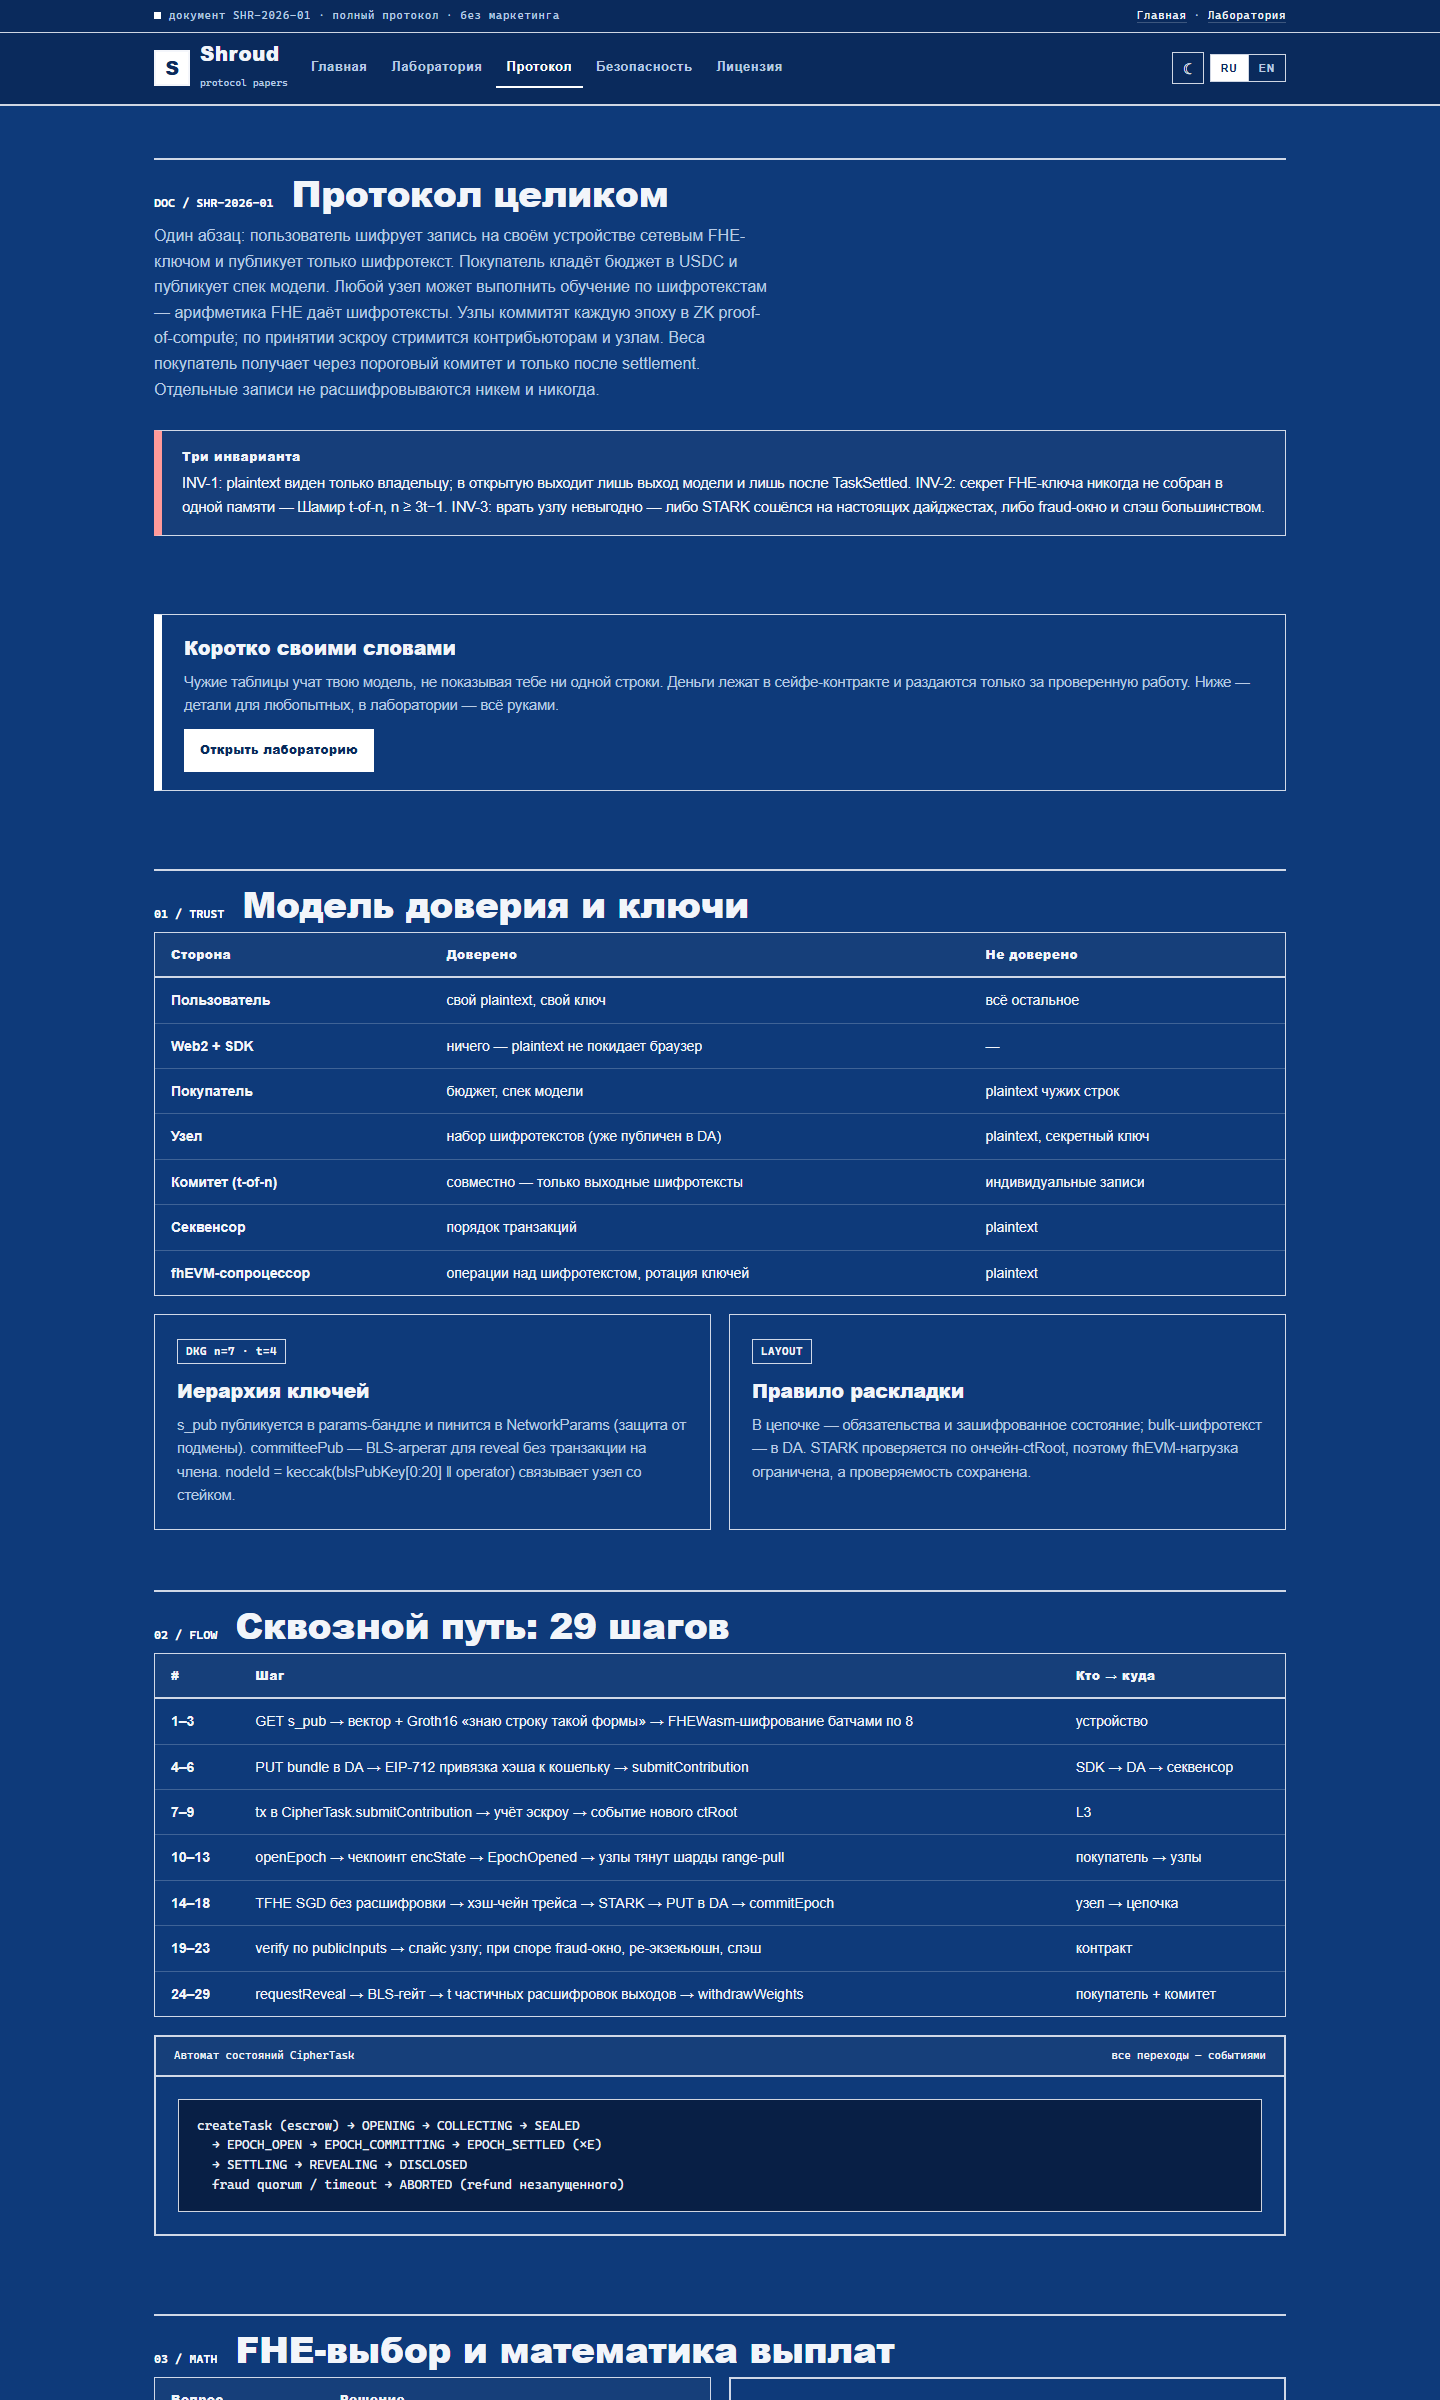
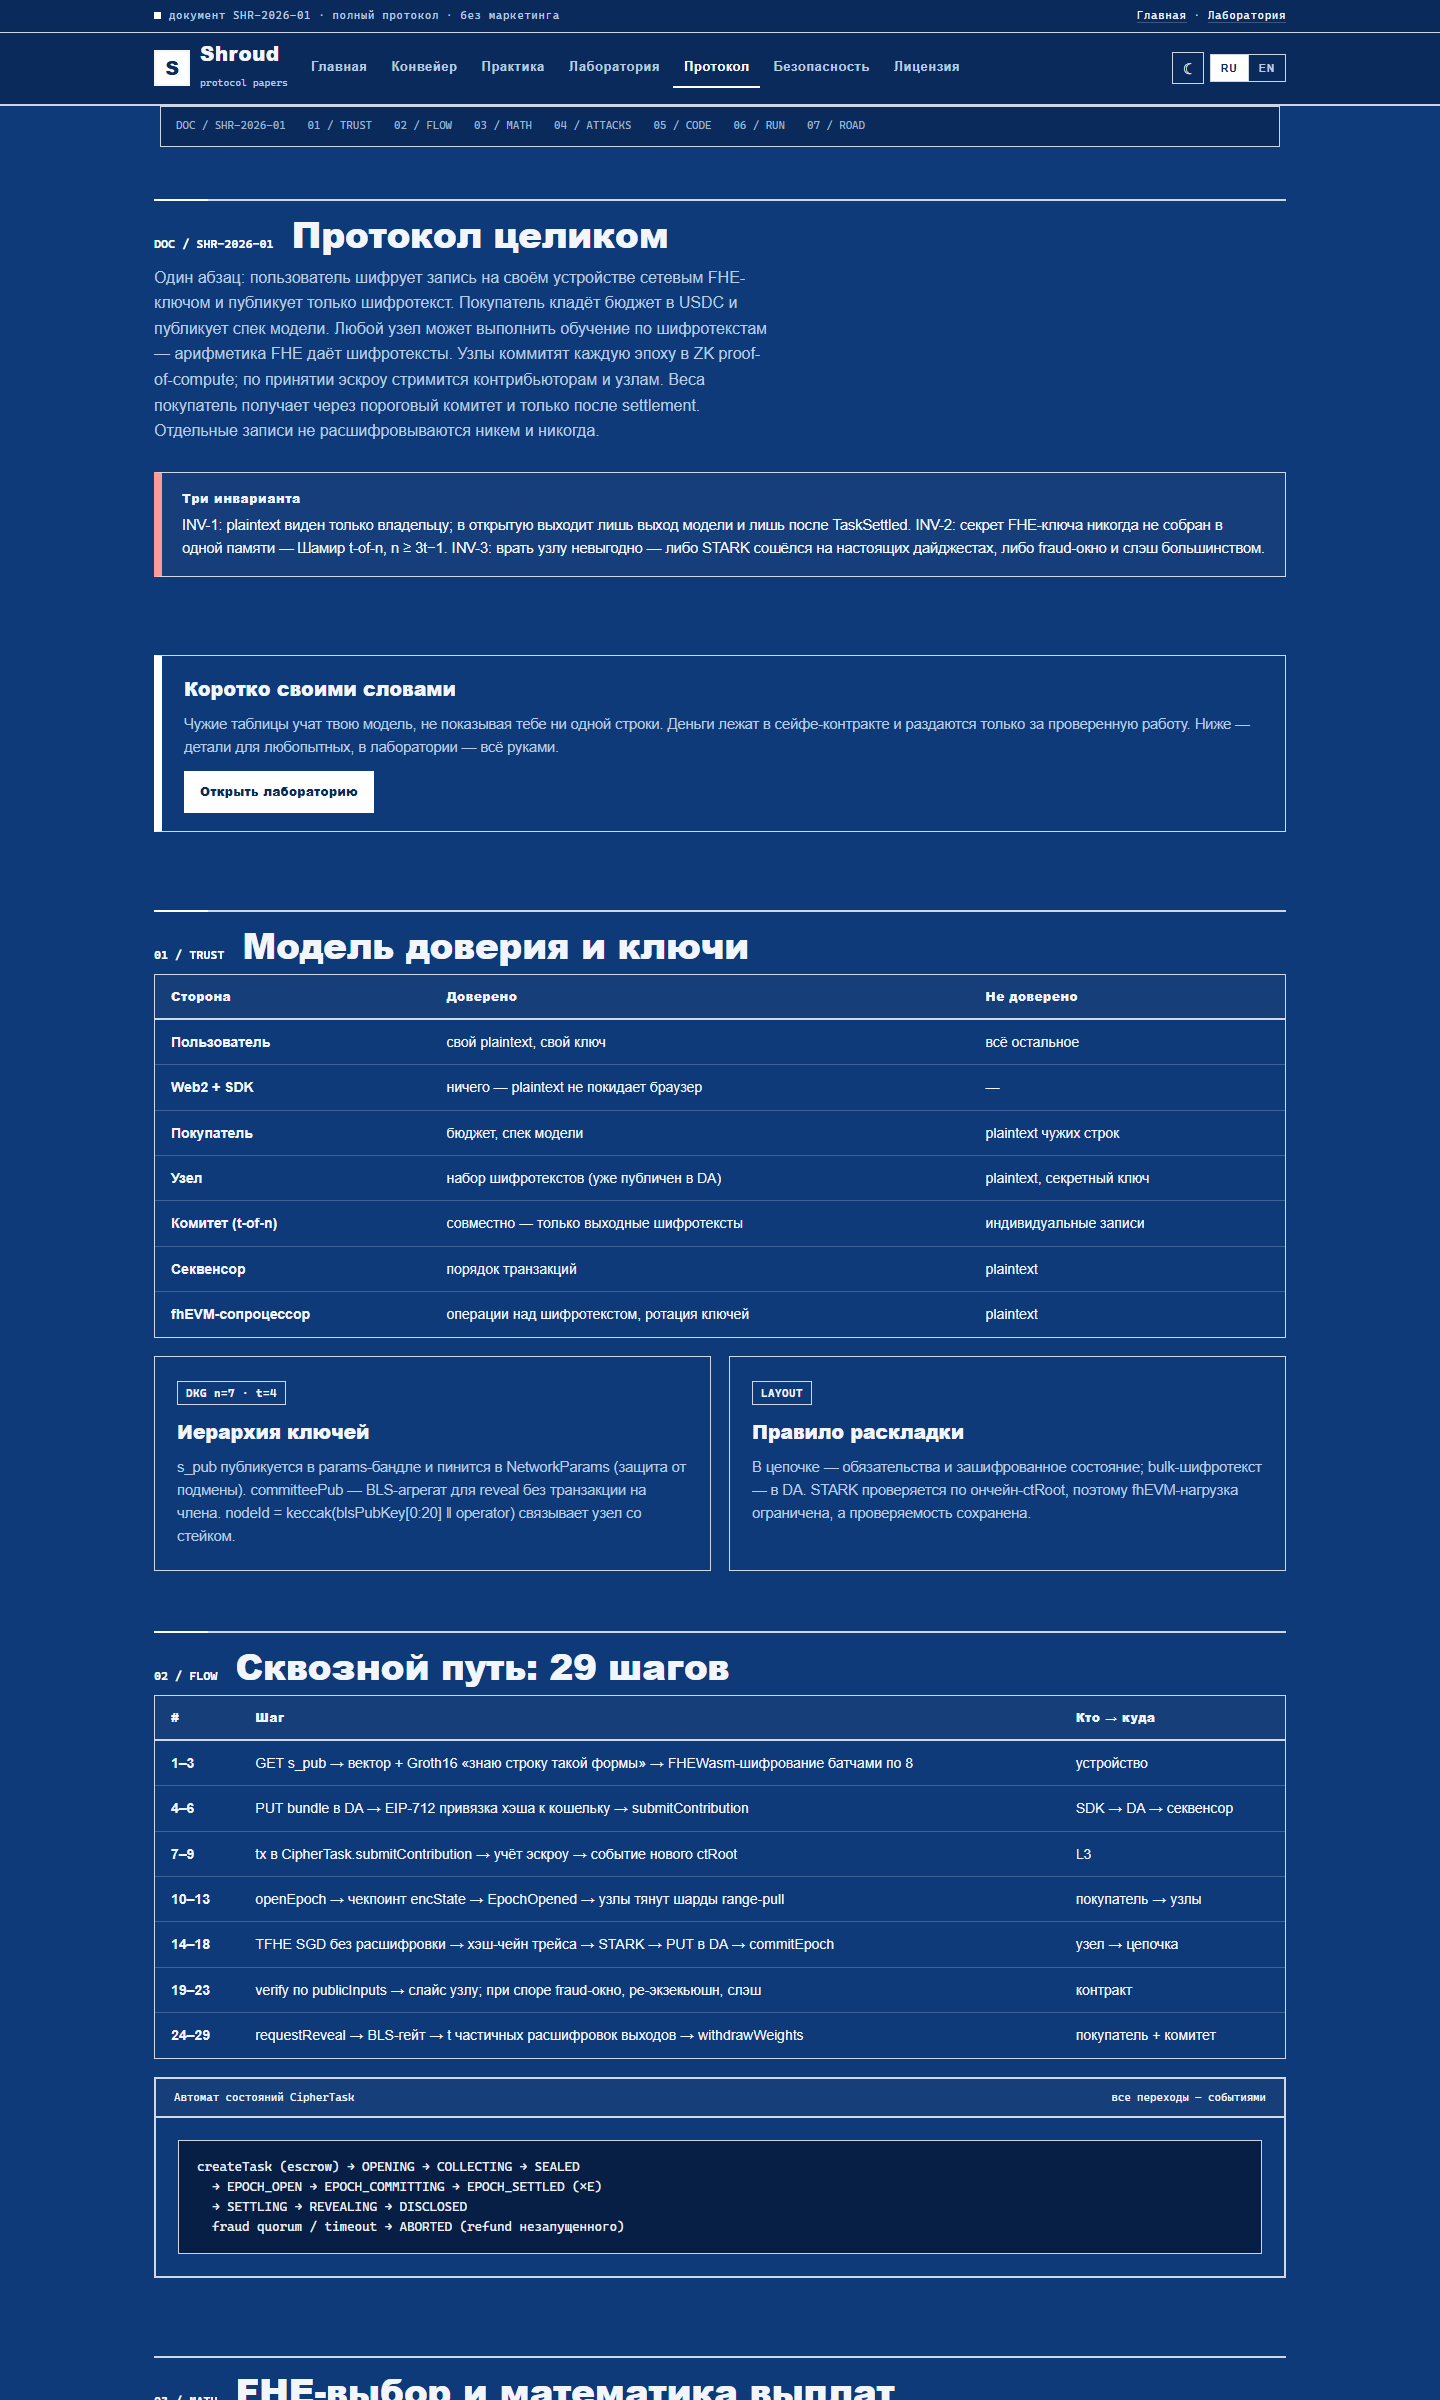
fix(web): the section bar was hiding under the header, re-render the shots
The section bar was `position: fixed` with `top` computed from
masthead.offsetHeight — the header's own height, not its bottom edge. The
header does not start at the top of the viewport (`.topbar` sits above it),
so the bar landed *inside* the header and its background (z-index 40) painted
over the chips: an empty frame on screen. The DOM had all the links, which is
why every DOM-level check passed.

It is now `position: sticky` in the flow right after the masthead, with
`top` set to the header height — which is exactly what sticky needs, with no
arithmetic about where the header happens to be.

Found by rendering the site with headless Chrome and looking at the PNGs,
which is also how the screenshots got refreshed: docs/shots/*.png still showed
the pre-split home page and the five-item menu. Re-rendered at the same sizes
as before (1440×960, 1440×2600, 1440×2400, 500×1000), README captions updated.

The bar also needs at least 3 sections to earn the ~45px of viewport it takes:
home, security and protocol keep it, the two-section practice page drops it.

diff --git a/web/assets/app.js b/web/assets/app.js
@@ -141,8 +141,10 @@
     var tocEl = null, tocLinks = [], spyObs = null;
     function placeToc() {
       if (!tocEl) return;
+      // липкая полоса прилипает к нижнему краю шапки: ей нужна её высота,
+      // а не позиция на экране (шапка стоит под топбаром)
       var m = document.querySelector(".masthead");
-      tocEl.style.top = ((m ? m.offsetHeight : 58) + 6) + "px";
+      tocEl.style.top = (m ? m.offsetHeight : 58) + "px";
     }
     function spy() {
       if (!tocLinks.length || !("IntersectionObserver" in window)) return;
@@ -157,12 +159,14 @@
     }
     function buildToc() {
       var secs = visibleSections();
-      if (secs.length < 2) { if (tocEl && tocEl.parentNode) tocEl.parentNode.removeChild(tocEl); tocEl = null; tocLinks = []; return; }
+      // полоса окупает занятые ~45px только когда разделов достаточно
+      if (secs.length < 3) { if (tocEl && tocEl.parentNode) tocEl.parentNode.removeChild(tocEl); tocEl = null; tocLinks = []; return; }
       if (!tocEl) {
         tocEl = document.createElement("nav");
         tocEl.className = "toc";
         tocEl.setAttribute("aria-label", tr("ui.toc"));
-        document.body.appendChild(tocEl);
+        var mast = document.querySelector(".masthead");
+        (mast && mast.parentNode ? mast.parentNode : document.body).insertBefore(tocEl, mast ? mast.nextSibling : null);
         placeToc();
       }
       tocEl.innerHTML = "";

diff --git a/web/assets/style.css b/web/assets/style.css
@@ -355,8 +355,8 @@ a:focus-visible,button:focus-visible,input:focus-visible,select:focus-visible,te
 .totop:hover{border-color:var(--acc);color:var(--acc)}
 
 /* оглавление страницы: липкая полоса под шапкой, узкие экраны — без неё */
-.toc{position:fixed;left:50%;transform:translateX(-50%);top:64px;z-index:38;
-  width:min(1120px,calc(100% - 40px));display:flex;flex-wrap:wrap;gap:2px;
+.toc{position:sticky;top:0;z-index:39;width:min(1120px,calc(100% - 40px));
+  margin:0 auto;display:flex;flex-wrap:wrap;gap:2px;
   padding:5px;background:var(--bg2);border:1px solid var(--line)}
 .toc a{padding:5px 10px;color:var(--dim);text-decoration:none;font-family:var(--mono);
   font-size:11px;white-space:nowrap;overflow:hidden;text-overflow:ellipsis;max-width:280px;

diff --git a/CHANGELOG.md b/CHANGELOG.md
@@ -14,11 +14,16 @@ first tagged release.
   the status ticker now actually scrolls (seamless, pauses on hover); cards lift
   and light up their border on hover/focus; menu underlines grow from the left.
 - **Small tools**: an auto-built section bar under the masthead with a scroll-spy
-  (pages with 2+ sections: home, practice, security, protocol) — every section
+  (pages with 3+ sections: home, security, protocol) — every section
   also gets a stable `id`, so `#sec-3` style deep links work and respect the
   existing `scroll-margin-top`; a copy button on every `pre.code` block (labels
   follow the language, hidden on touch devices where hover does not exist); a
   2px scroll-progress line and a "back to top" button.
+- The section bar is `sticky` and sits in the flow right after the masthead
+  rather than being `fixed`. Fixed positioning put it *under* the header: the
+  header does not start at the top of the viewport (`.topbar` is above it) and
+  it covers the bar with its own background, which left an empty frame on
+  screen. Found by rendering the site and looking at the result.
 - `prefers-reduced-motion` is honoured in both directions: CSS kills the motion,
   and JS skips ticker duplication and reveal observers entirely.
 - Progress and "back to top" write styles straight from the scroll handler (no
@@ -39,6 +44,10 @@ first tagged release.
   unreachable page) and caught all five.
 - Section ids are numbered without gaps now, so `#sec-3` is the third section
   of the page on every page.
+- `docs/shots/*.png` re-rendered from the current site: `home.png` showed the
+  pre-split single-page home, `mobile.png` and `protocol.png` still had the
+  five-item menu. Captured with headless Chrome at the same sizes as before
+  (1440×960, 1440×2600, 1440×2400, 500×1000).
 
 ### Site: one page per topic (home stops being a single scroll)
 

diff --git a/README.md b/README.md
@@ -21,9 +21,9 @@ the protocol, the honest security posture, and a lab that runs the pipeline in y
 | [Home](https://ssrjkk.github.io/shroud/) · [Pipeline](https://ssrjkk.github.io/shroud/pipeline.html) · [Practice](https://ssrjkk.github.io/shroud/use.html) · [Lab](https://ssrjkk.github.io/shroud/playground.html) · [Protocol](https://ssrjkk.github.io/shroud/protocol.html) · [Security](https://ssrjkk.github.io/shroud/security.html) · [License](https://ssrjkk.github.io/shroud/license.html) |
 |---|
 
-| ![Home — pipeline, guarantees, repo map](docs/shots/home.png) | ![Lab — the protocol running in the browser](docs/shots/lab.png) |
+| ![Home — the hub: where to go, repo, constants](docs/shots/home.png) | ![Lab — the protocol running in the browser](docs/shots/lab.png) |
 |---|---|
-| ![Protocol — full spec, params, roles](docs/shots/protocol.png) | ![Mobile layout](docs/shots/mobile.png) |
+| ![Protocol — full spec, params, roles, section bar](docs/shots/protocol.png) | ![Mobile layout](docs/shots/mobile.png) |
 
 The site is fully static (`web/`, no build step): bilingual RU/EN, ink/paper themes,
 newcomer/pro audience modes. The home page is a hub — pipeline, practice, lab,
